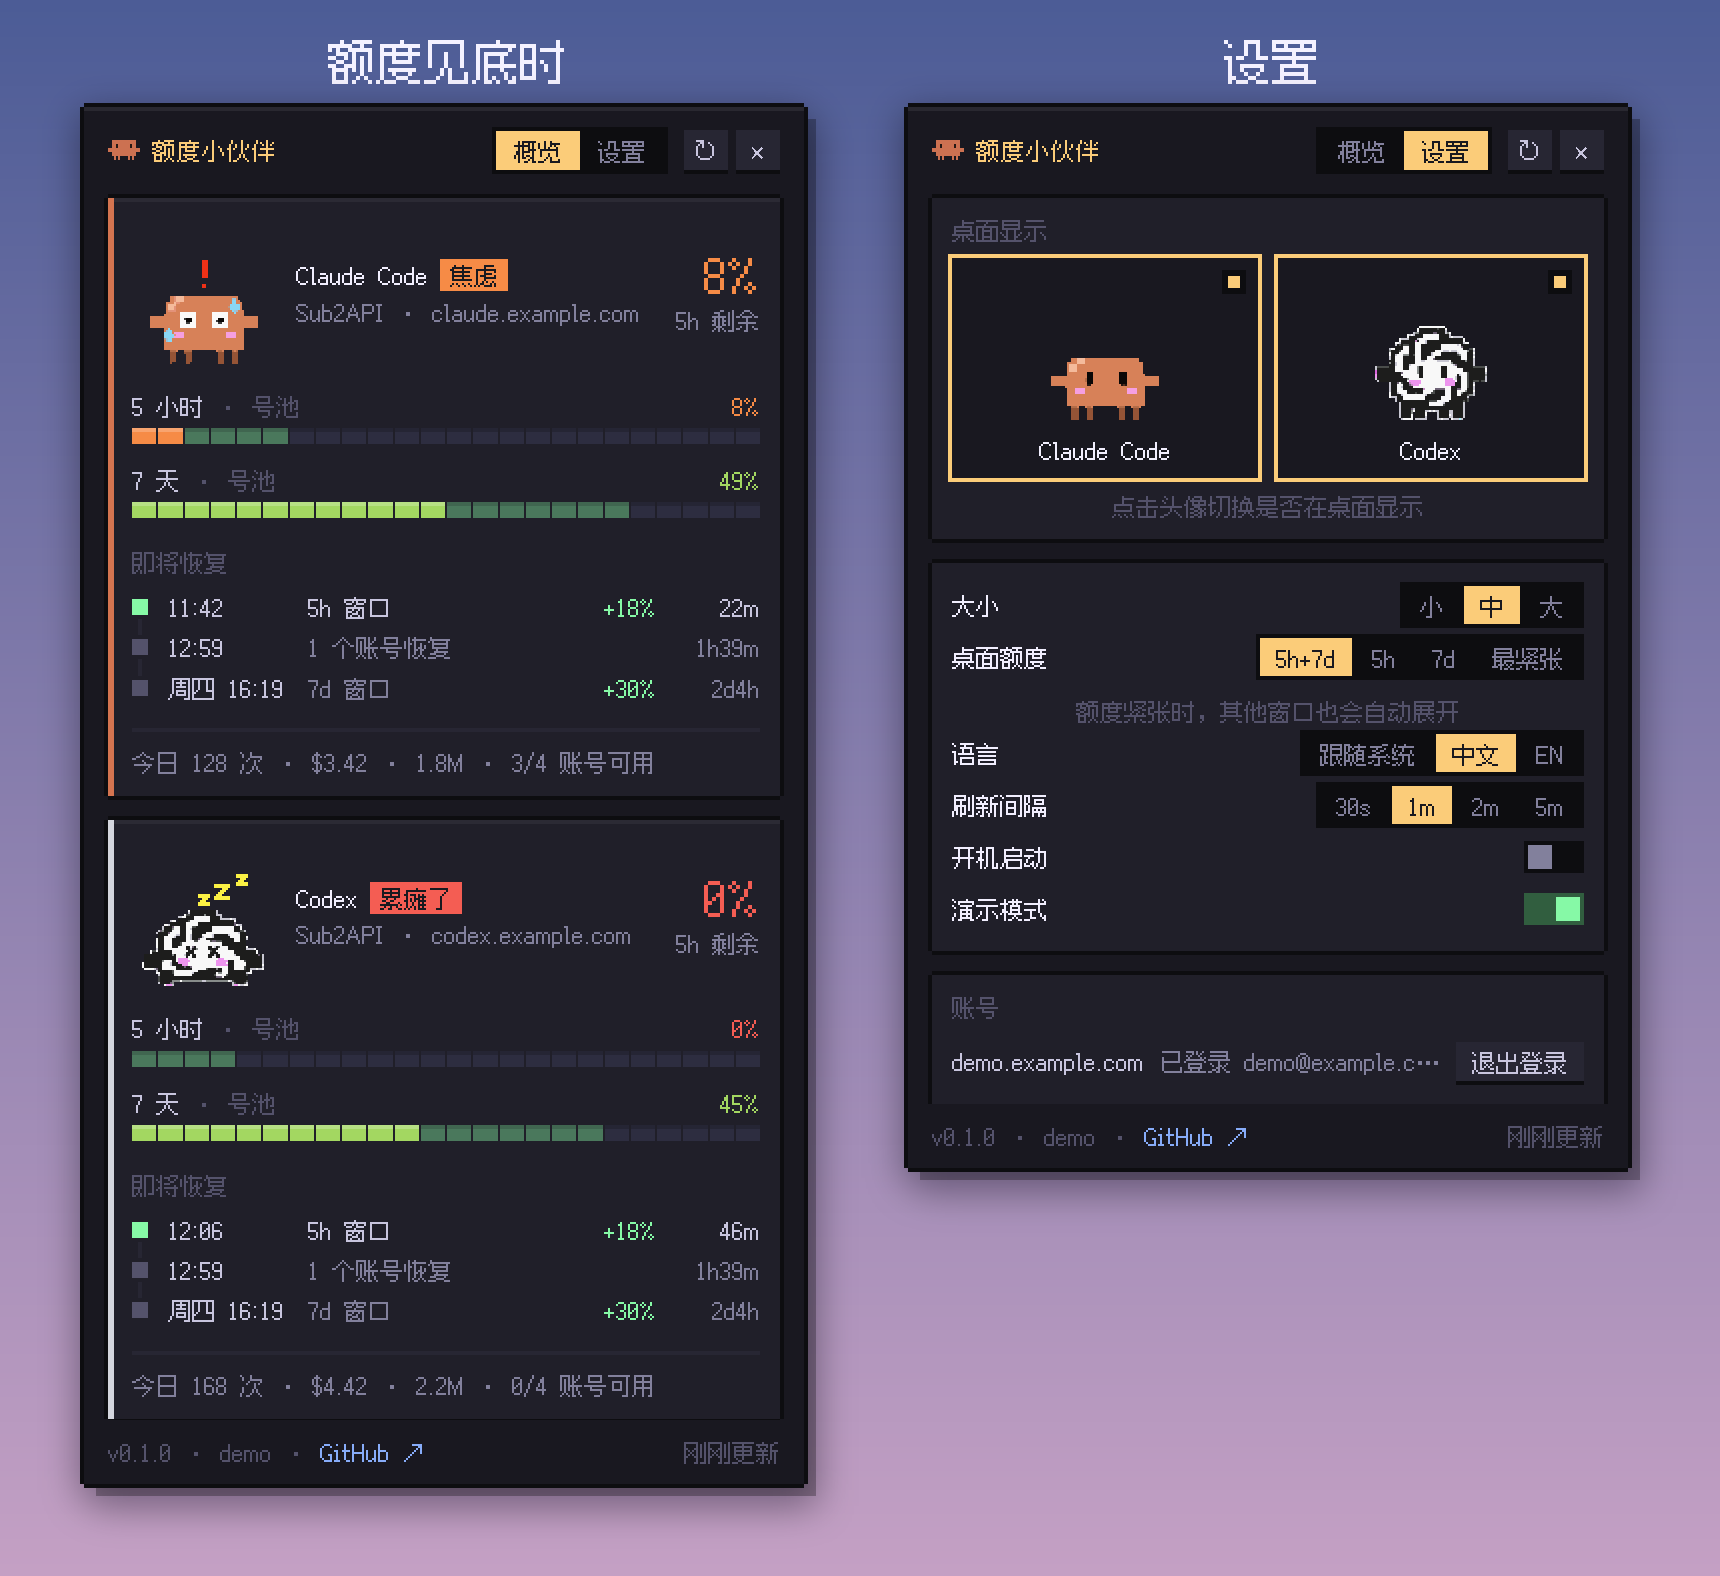
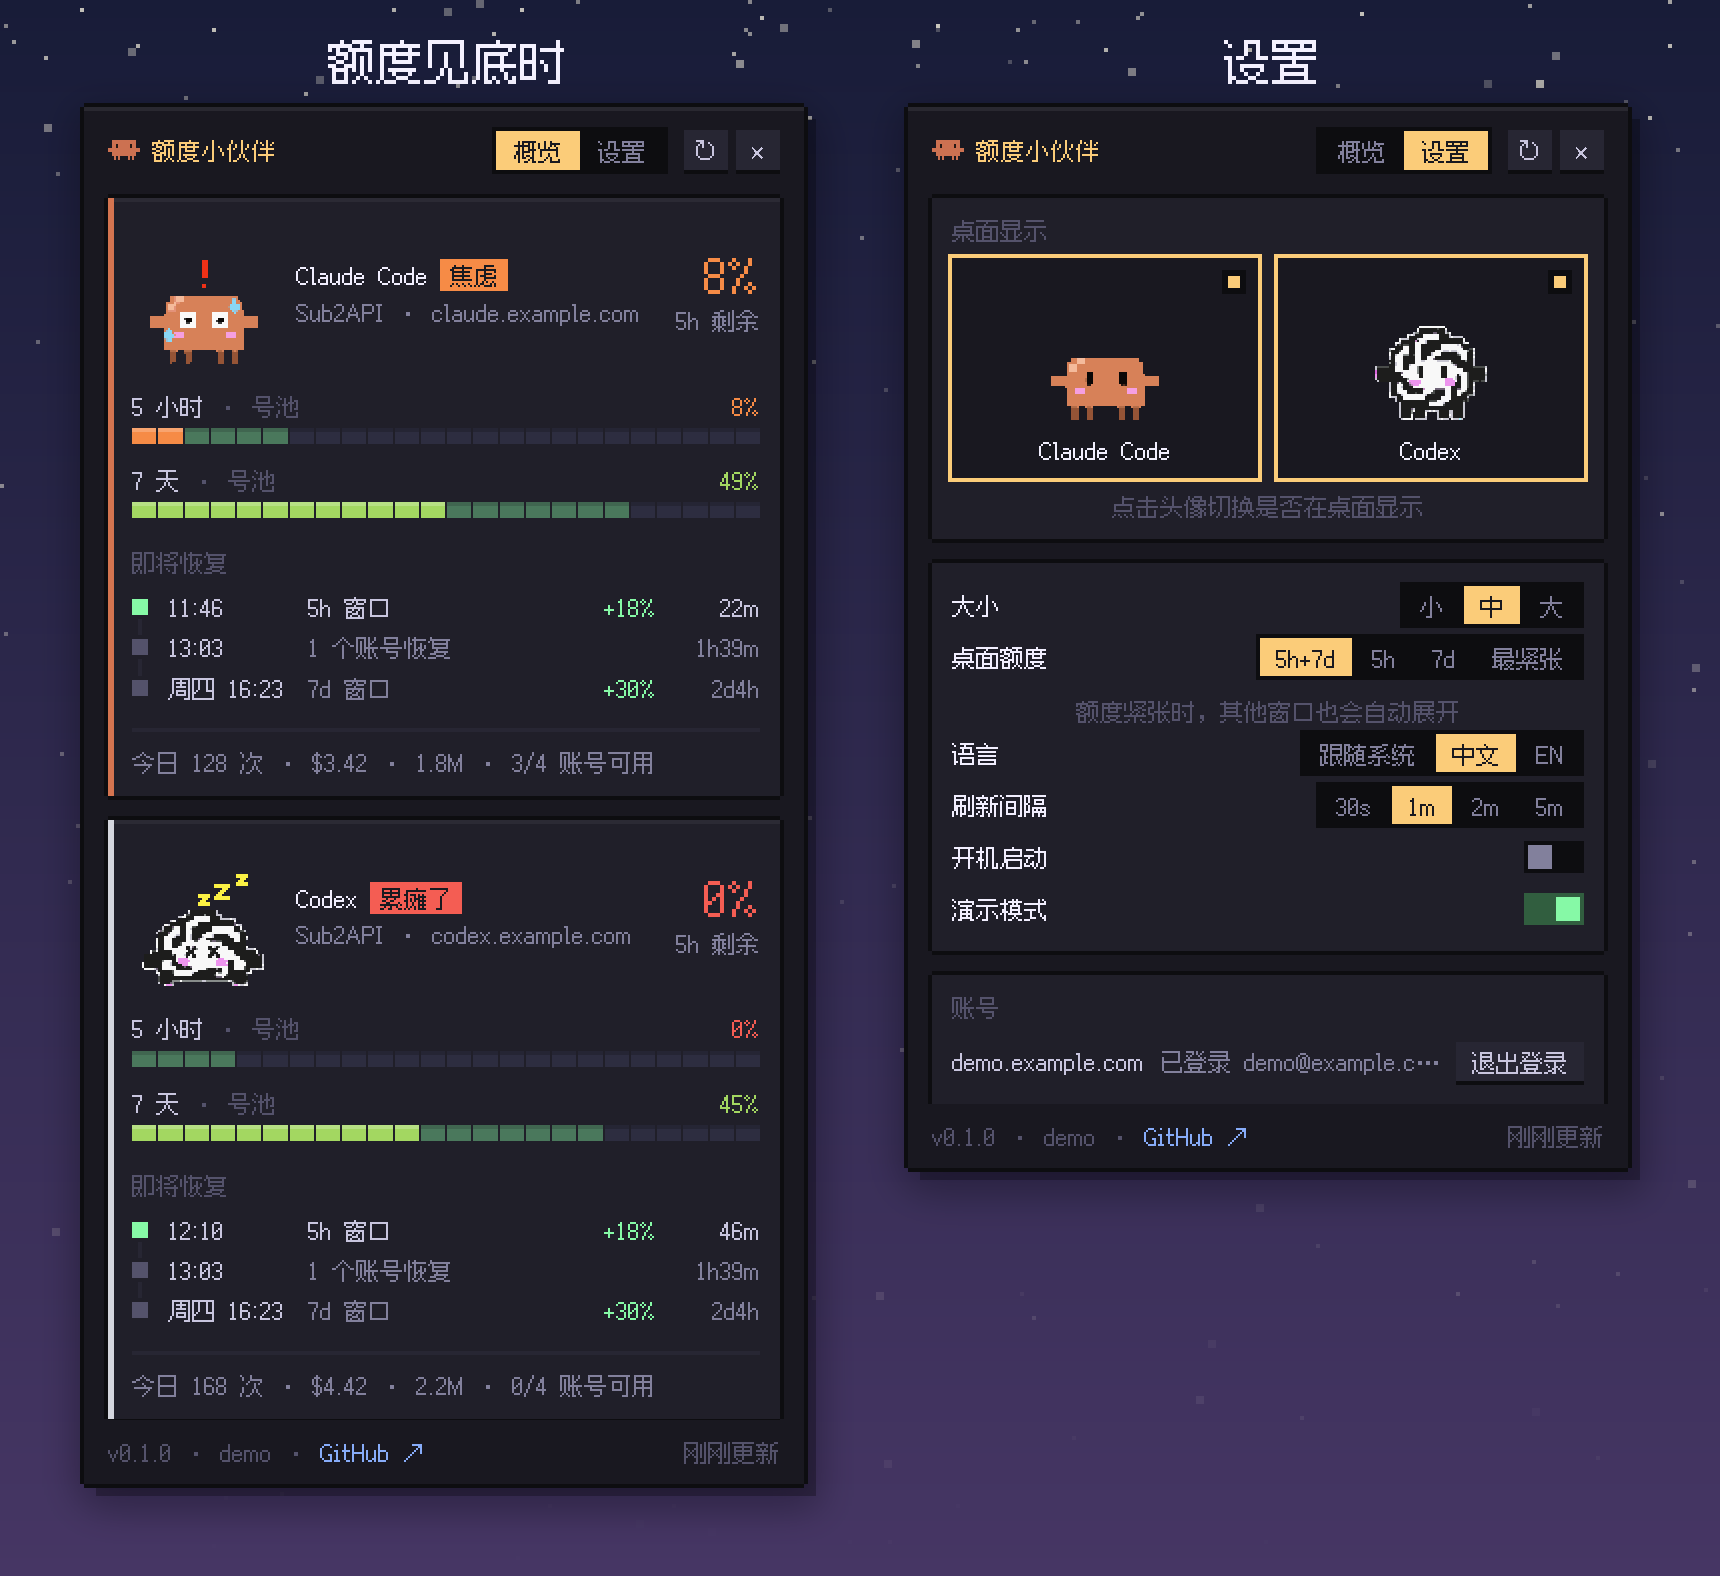
README screenshots: night-sky backdrop with pixel stars
Matches the dark panel and the mood GIF, and makes the sprites stand out.

diff --git a/art/tools/make_screenshots.py b/art/tools/make_screenshots.py
@@ -12,6 +12,7 @@ from __future__ import annotations
 
 import json
 import os
+import random
 import subprocess
 import tempfile
 from pathlib import Path
@@ -26,7 +27,9 @@ FONT = ROOT / "assets/fonts/fusion-pixel-12px.woff2"
 INK = (244, 241, 255)
 INK_DIM = (214, 210, 236)
 GOLD = (255, 205, 102)
-TOP, BOTTOM = (76, 92, 150), (196, 160, 196)
+# a night-sky desktop: dark enough for the panel to sit in, light enough for the sprites to pop
+TOP, BOTTOM = (24, 28, 56), (70, 54, 100)
+CHIP = (52, 48, 76, 255)
 
 MODES = [("both", "5h + 7d（默认）"), ("5h", "5h 优先"), ("7d", "7d 优先"), ("auto", "最紧张")]
 STATES = [("relaxed", "额度充足"), ("tired", "额度紧张")]
@@ -46,7 +49,18 @@ def wallpaper(w: int, h: int) -> Image.Image:
     grad = Image.linear_gradient("L").resize((w, h))
     top = Image.new("RGBA", (w, h), TOP + (255,))
     bottom = Image.new("RGBA", (w, h), BOTTOM + (255,))
-    return Image.composite(bottom, top, grad)
+    img = Image.composite(bottom, top, grad)
+    # sparse pixel stars, thinning out towards the bottom; seeded so the images stay stable
+    rnd = random.Random(7)
+    stars = Image.new("RGBA", (w, h), (0, 0, 0, 0))
+    d = ImageDraw.Draw(stars)
+    for _ in range(w * h // 9000):
+        x, y = rnd.randrange(w) // 4 * 4, int(h * rnd.random() ** 1.6) // 4 * 4
+        size = 4 if rnd.random() < 0.8 else 8
+        alpha = int(rnd.uniform(60, 200) * (1 - y / h))
+        d.rectangle((x, y, x + size - 1, y + size - 1), fill=(255, 250, 230, alpha))
+    img.alpha_composite(stars)
+    return img
 
 
 def shadowed(base: Image.Image, img: Image.Image, xy: tuple[int, int], blur: int = 18, offset: int = 10) -> None:
@@ -102,7 +116,7 @@ def hero(main: Path) -> None:
         tw = int(d.textlength(chip, font=font(24)))
         if x + tw + 32 > m + max(pets.width, 760):
             x, y = m, y + 64
-        d.rectangle((x, y, x + tw + 32, y + 46), fill=(28, 26, 40, 210), outline=(11, 10, 16), width=4)
+        d.rectangle((x, y, x + tw + 32, y + 46), fill=CHIP, outline=(11, 10, 16), width=4)
         d.text((x + 16, y + 10), chip, font=font(24), fill=INK)
         x += tw + 32 + 16
 
@@ -128,7 +142,7 @@ def meters(caps: dict[tuple[str, str], Path]) -> None:
         y = head + r * (cell_h + 56)
         d.text((40, y + cell_h - 92), title, font=font(36), fill=INK)
         if r:
-            d.line((40, y - 28, w - 40, y - 28), fill=(255, 255, 255, 90), width=2)
+            d.line((40, y - 28, w - 40, y - 28), fill=(104, 96, 140), width=2)
         for c, (mode, _) in enumerate(MODES):
             t = tiles[(state, mode)]
             img.alpha_composite(t, (label_w + c * cell_w + (cell_w - t.width) // 2, y + cell_h - t.height))
